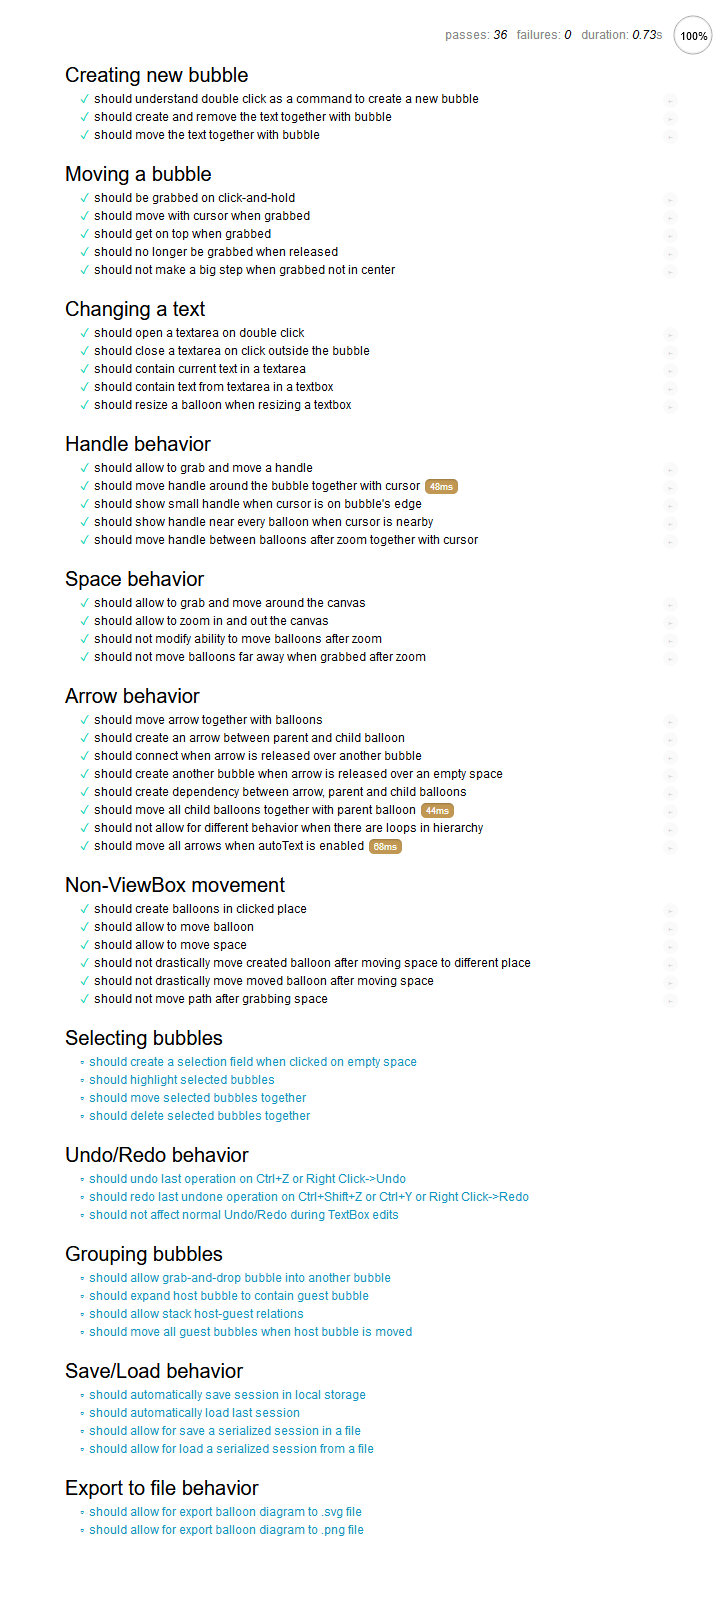
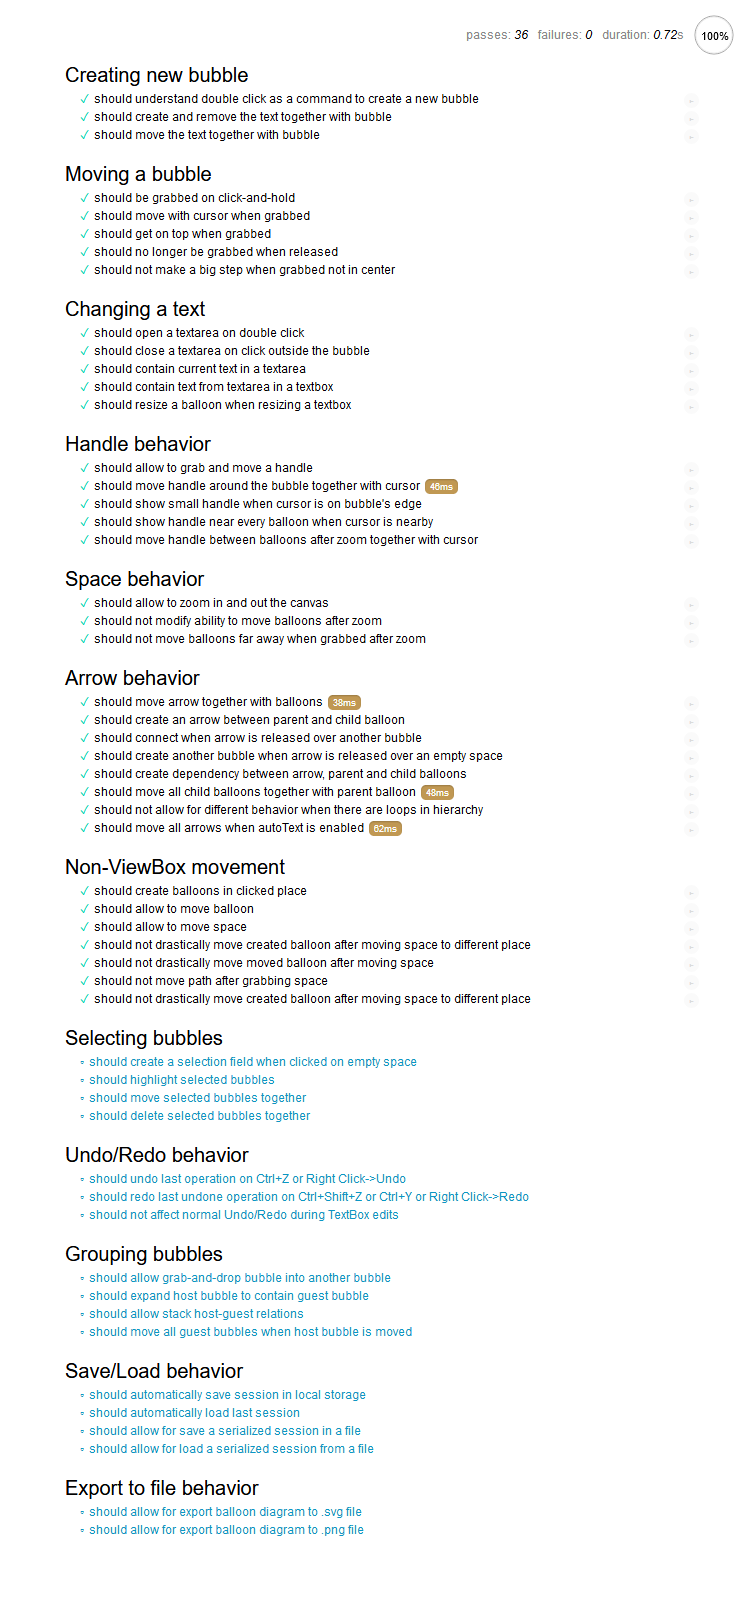
Added arrow head and tail position test

diff --git a/test/test.js b/test/test.js
@@ -280,21 +280,6 @@ describe('Handle behavior',
 
 describe('Space behavior',
     () => {
-        it('should allow to grab and move around the canvas',
-            () => {
-                Space.clear();
-                Space.isTesting = true;
-                Balloons.addBalloon(x0, y0);
-                var [x1, y1, ,] = Space.viewBox();
-                Mouse.click(x0 + 200, y0 + 200);
-                Mouse.move(x0 + 300, y0 + 300);
-                Space.draggingBalloon.should.equal(false);
-                Space.draggingSpace.should.equal(true);
-                var [x2, y2, ,] = Space.viewBox();
-                x1.should.not.equal(x2);
-                y1.should.not.equal(y2);
-            });
-
         it('should allow to zoom in and out the canvas',
             () => {
                 Space.clear();
@@ -310,20 +295,6 @@ describe('Space behavior',
                 h1.should.be.above(h3);
                 //Space.clear();
             });
-
-        //it('should allow to create balloons in same cursor place after zoom',
-        //    () => {
-        //        Space.clear();
-        //        Space.zoom(10);
-        //        Mouse.doubleclick(x0, y0);
-        //        var [x1, y1] = Space.toScreen(x0, y0);
-        //        var b = Balloons.getLast();
-        //        var [x2, y2, w, h] = b.rect();
-        //        [x2, y2] = Space.toScreen(x2 + w / 2, y2 + h / 2);
-        //        x1.should.equal(x2);
-        //        y1.should.equal(y2);
-        //        Space.clear();
-        //    });
 
         it('should not modify ability to move balloons after zoom',
             () => {
@@ -672,6 +643,30 @@ describe('Non-ViewBox movement',
                 b.drop();
                 Space.showHandle();
                 var [x2, y2] = [b.pathx, b.pathy];
+                Math.abs(x1 - x2).should.be.below(10);
+                Math.abs(y1 - y2).should.be.below(10);
+                Space.useViewBox = true;
+                Space.clear();
+            });
+
+        it('should not drastically move created balloon after moving space to different place',
+            () => {
+                Space.useViewBox = false;
+                Space.isTesting = true;
+                Space.point.x.should.equal(0);
+                Space.draggingSpace.should.equal(false);
+                Mouse.click(x0, y0);
+                Space.draggingSpace.should.equal(true);
+                var dx = 25;
+                Mouse.move(x0 + dx, y0);
+                Mouse.release(x0 + dx, y0);
+                Math.abs(Space.point.x - dx).should.be.below(10);
+                var b = Balloons.addBalloon(x0, y0);
+                var [x1, y1] = b.getXY();
+                Math.abs(x1 - x0 + 100).should.be.below(10);
+                Math.abs(y1 - y0 + 100).should.be.below(10);
+                Balloons.refresh();
+                var [x2, y2] = b.getXY();
                 Math.abs(x1 - x2).should.be.below(10);
                 Math.abs(y1 - y2).should.be.below(10);
                 Space.useViewBox = true;

diff --git a/scripts/handle.js b/scripts/handle.js
@@ -2,8 +2,9 @@
     constructor() {
         this.arrow = null;
         this.isDragged = false;
+        this.width = 40;
         this.parentBalloon = Balloons.getLast();
-        this.handle = Space.s.rect(0, 0, 40, 40);
+        this.handle = Space.s.rect(0, 0, this.width, this.width);
         this.handle.attr({
             class: 'balloon',
             id: 'handle',
@@ -24,8 +25,8 @@
     }
 
     setLocation(r) {
-        this.handle.attr('x', r.x - 20);
-        this.handle.attr('y', r.y - 20);
+        this.handle.attr('x', r.x - this.width / 2);
+        this.handle.attr('y', r.y - this.width / 2);
     }
 
     grab() {
@@ -34,19 +35,20 @@
             this.arrow.remove();
         if (this.parentBalloon !== null) {
             var [x, y] = this.getXY();
-            [x, y] = [x + 20, y + 20];
+            [x, y] = [x + this.width / 2, y + this.width / 2];
             this.arrow = new Arrow(this.parentBalloon, [x, y]);
+            this.parentBalloon.centerTail(this.arrow);
         }
     }
 
     move(x, y) {
         this.handle.attr('x', x);
         this.handle.attr('y', y);
-        this.arrow.moveHead(x + 20, y + 20);
+        this.arrow.moveHead(x + this.width / 2, y + this.width / 2);
     }
 
     drop(x, y, e) {
-        this.handle.attr({ visibility: 'hidden' });
+        this.handle.attr({ visibility: 'hidden' }); //must remain to create balloon
         this.arrow.hide();
         var [, , element] = Space.getElement(e);
         var b = null;
@@ -72,10 +74,39 @@
             this.parentBalloon.centerTail(this.arrow);
         }
         this.arrow.show();
+        this.handle.attr({ visibility: 'visible' });
         this.arrow = null;
         this.isDragged = false;
-        this.handle.attr({ visibility: 'visible' });
     }
+
+    //drop(x, y, e) {
+    //    this.handle.attr({ visibility: 'hidden' });
+    //    var [, , element] = Space.getElement(e);
+    //    var b = null;
+
+    //    if (element.id === 'body') {
+    //        b = this.createBalloon(x, y);
+    //    }
+    //    else if (element.class === 'balloon') {
+    //        b = Balloons.findFromElement(element);
+    //    }
+    //    else if (element.getAttribute('class') === 'inner-text') {
+    //        b = Balloons.findFromElement(element.parentElement);
+    //    }
+    //    if (b !== null && typeof b !== 'undefined') {
+    //        this.parentBalloon.childArrows.push(this.arrow);
+    //        this.parentBalloon.childBalloons.push(b);
+    //        b.parentBalloons.push(this.parentBalloon);
+    //        this.arrow.headBalloon = b;
+    //        b.parentArrows.push(this.arrow);
+    //        b.centerHead(this.arrow);
+    //    }
+    //    if (this.parentBalloon !== null) {
+    //        this.parentBalloon.centerTail(this.arrow);
+    //    }
+    //    this.arrow = null;
+    //    this.isDragged = false;
+    //}
 
     showHandle() {
         if (this.isDragged) return;

diff --git a/scripts/balloon.js b/scripts/balloon.js
@@ -110,7 +110,14 @@ class Balloon {
                 [x, y] = Space.toInternal(x2 - x1 + x0, y2 - y1 + y0);
                 balloon.x = x;
                 balloon.y = y;
-                balloon.moveInternal(x, y);
+                if (Space.useViewBox) {
+                    balloon.moveInternal(x, y);
+                }
+                else {
+                    balloon.x = x - Space.point.x + balloon.W / 2;
+                    balloon.y = y - Space.point.y + balloon.H / 2;
+                    balloon.moveInternal(x, y);
+                }
             });
         }
         this.freezeMovement = false;
@@ -131,15 +138,11 @@ class Balloon {
     }
 
     centerTail(arrow) {
-        var [w, h] = this.wh();
-        [w, h] = Space.toInternal(w, h);
-        arrow.moveTail(this.x + w / 2, this.y + h / 2);
+        arrow.moveTail(this.x, this.y);
     }
 
     centerHead(arrow) {
-        var [w, h] = this.wh();
-        [w, h] = Space.toInternal(w, h);
-        arrow.moveHead(this.x + w / 2, this.y + h / 2);
+        arrow.moveHead(this.x, this.y);
     }
 
     createBalloon(x, y) {
